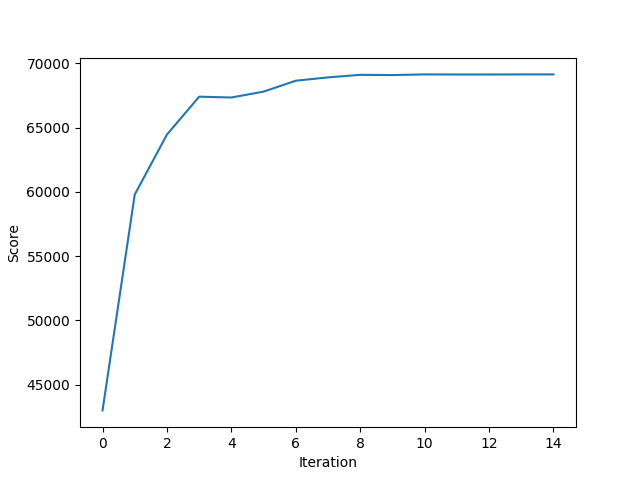
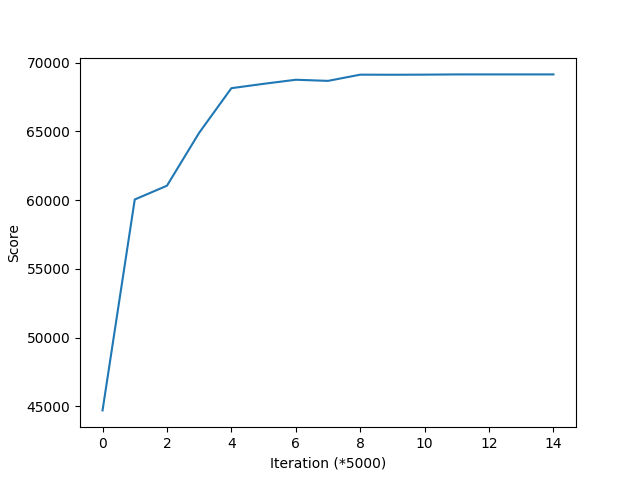
Added unigram attack

diff --git a/project.py b/project.py
@@ -30,40 +30,39 @@ def main():
     Main function.
     """
     # check the number of arguments
-    if len(sys.argv) != 4:
-        print("Usage: python project.py <n_gram> <plain_text_file> <output_file>")
+    if len(sys.argv) != 4 and len(sys.argv) != 5:
+        print("Usage: python project.py <n_gram> <plain_text_file> <output_file> (optional:<key>)")
         sys.exit(1)
     try:
         n_gram = int(sys.argv[1])
         message_file = os.path.join('test_files', sys.argv[2])
         output_file = os.path.join('output_files', sys.argv[3])
+        if len(sys.argv) == 5:
+             # Get the key, if any
+            try:
+                key = sys.argv[4]
+                if  len(key) == 1 or len(key) == 2:
+                    try:
+                        key = int(key)
+                        if not 0 < key < 26:
+                            raise ValueError 
+                    except ValueError:
+                        raise ValueError
+                elif len(key) != 26:
+                    raise ValueError
+            except ValueError:
+                print('Invalid key')
+                sys.exit(1)
+        else:
+            key = None
     except ValueError:
-        print("Usage: python project.py <n_gram> <plain_text_file> <output_file>")
+        print("Usage: python project.py <n_gram> <plain_text_file> <output_file> (optional:<key>)")
         sys.exit(1)
 
     # Get input from the user
     # Get message to be encrypted
     with open(message_file, 'r', encoding='utf8') as f:
         message = f.read().strip().lower()
-
-    # Get the key, if any
-    # try:
-    #     key = input('Enter the key. Press Enter for RandomCipher: ')
-    #     if key == '':
-    #         key = None
-    #     elif  len(key) == 1 or len(key) == 2:
-    #         try:
-    #             key = int(key)
-    #             if not 0 < key < 26:
-    #                 raise ValueError 
-    #         except ValueError:
-    #             raise ValueError
-    #     elif len(key) != 26:
-    #         raise ValueError
-    # except ValueError:
-    #     print('Invalid key')
-    #     sys.exit(1)
-    key = None # means random cipher
 
 
     # get the cipher text
@@ -160,6 +159,81 @@ def count_matrix_trigram(file=None, text=None):
             count_matrix[current_index, next_index, next_next_index] += 1
     return count_matrix
 
+
+def count_matrix_unigram(file=None, text=None):
+    """
+    Function: To get the count matrix for unigram.
+    Input:
+        file -- File name
+        text -- Text
+    Output:
+        count_matrix -- Count matrix
+    """
+    # letters, alphabet
+    letters = list(string.ascii_lowercase)
+    # Get the count matrix
+    count_matrix = np.zeros((len(letters)))
+    if file:
+        with open(file, 'r', encoding='utf8') as f:
+            text = f.read().lower()
+    for i in range(len(text)):
+        # Get the current letter and the next letter
+        current_letter = text[i]
+        # Get the index of the current letter and the next letter
+        if current_letter in letters:
+            current_index = letters.index(current_letter)
+            # Increment the count
+            count_matrix[current_index] += 1
+    return count_matrix
+
+
+def unigram_attack(cipher_text):
+    """
+    Function: To get the unigram attack.
+    Input:
+        cipher_text -- Cipher text
+    Output:
+        key -- Key
+    """
+    # Get the count matrix
+    count_matrix = count_matrix_unigram(file='wp.txt')
+    # Get the count matrix
+    count_matrix_message = count_matrix_unigram(text=cipher_text)
+    # Get the key
+    key = get_key_unigram(count_matrix, count_matrix_message)
+    return key
+
+
+def get_key_unigram(count_matrix, count_matrix_message):
+    """
+    Function: To get the key for unigram attack.
+    Input:
+        count_matrix -- Count matrix
+        count_matrix_message -- Count matrix for the message
+    Output:
+        key -- Key
+    """
+    # letters, alphabet
+    letters = list(string.ascii_uppercase)
+    # Get the key
+    key = [i for i in range(len(letters))]
+    # iterate over the count_matrix_message
+    for i in range(len(count_matrix_message)):
+        # Get the index of the maximum value in the count matrix message
+        index_message = np.argmax(count_matrix_message)
+        # get the corresponding letter
+        letter_message = letters[index_message]
+        # Get the index of the maximum value in the count matrix
+        index_count_matrix = np.argmax(count_matrix)
+        # Get the letter corresponding to the index
+        letter_matrix = letters[index_count_matrix]
+        # make replacement in the key
+        key[index_message] = letter_matrix
+        # Make the count matrix message and count matrix zero
+        count_matrix_message[index_message] = -(i+1)
+        count_matrix[index_count_matrix] = -(i+1)
+    key = ''.join(key)
+    return key
 
 
 def probability_matrix(count_matrix):
@@ -350,7 +424,9 @@ def mcmc(cipher_text, message, n_gram=2):
     info = dict()
 
     # get a random key
-    key = random_key()
+    # key = random_key()
+    # get a key using unigram
+    key = unigram_attack(cipher_text)
 
     # get the plain text
     plain_text = decrypt(cipher_text, key)
